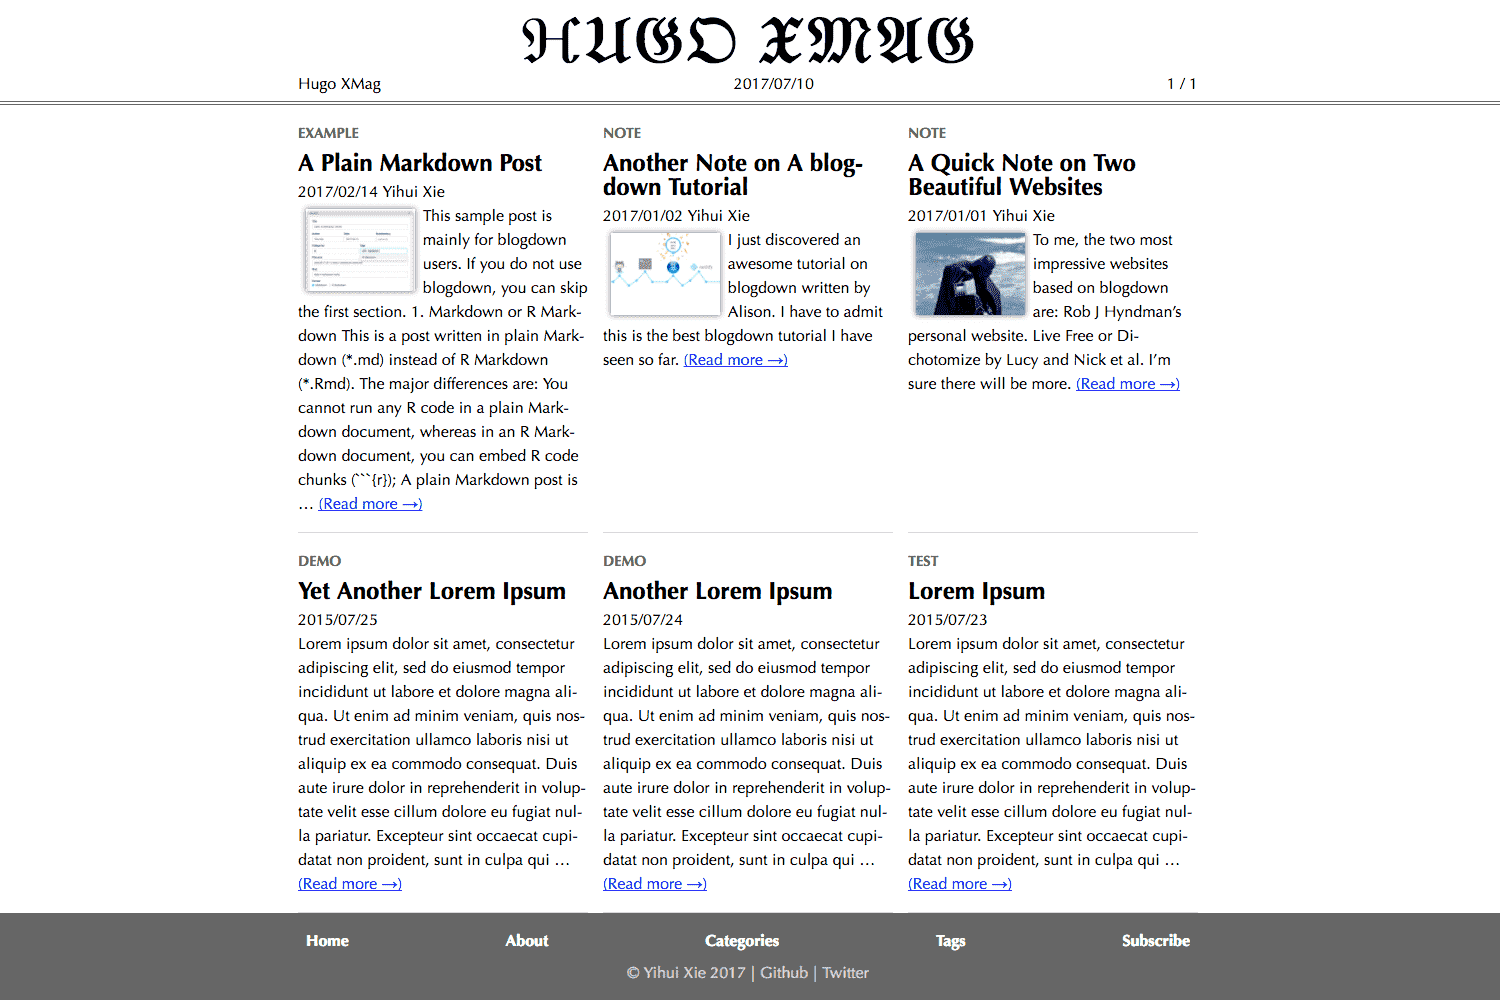
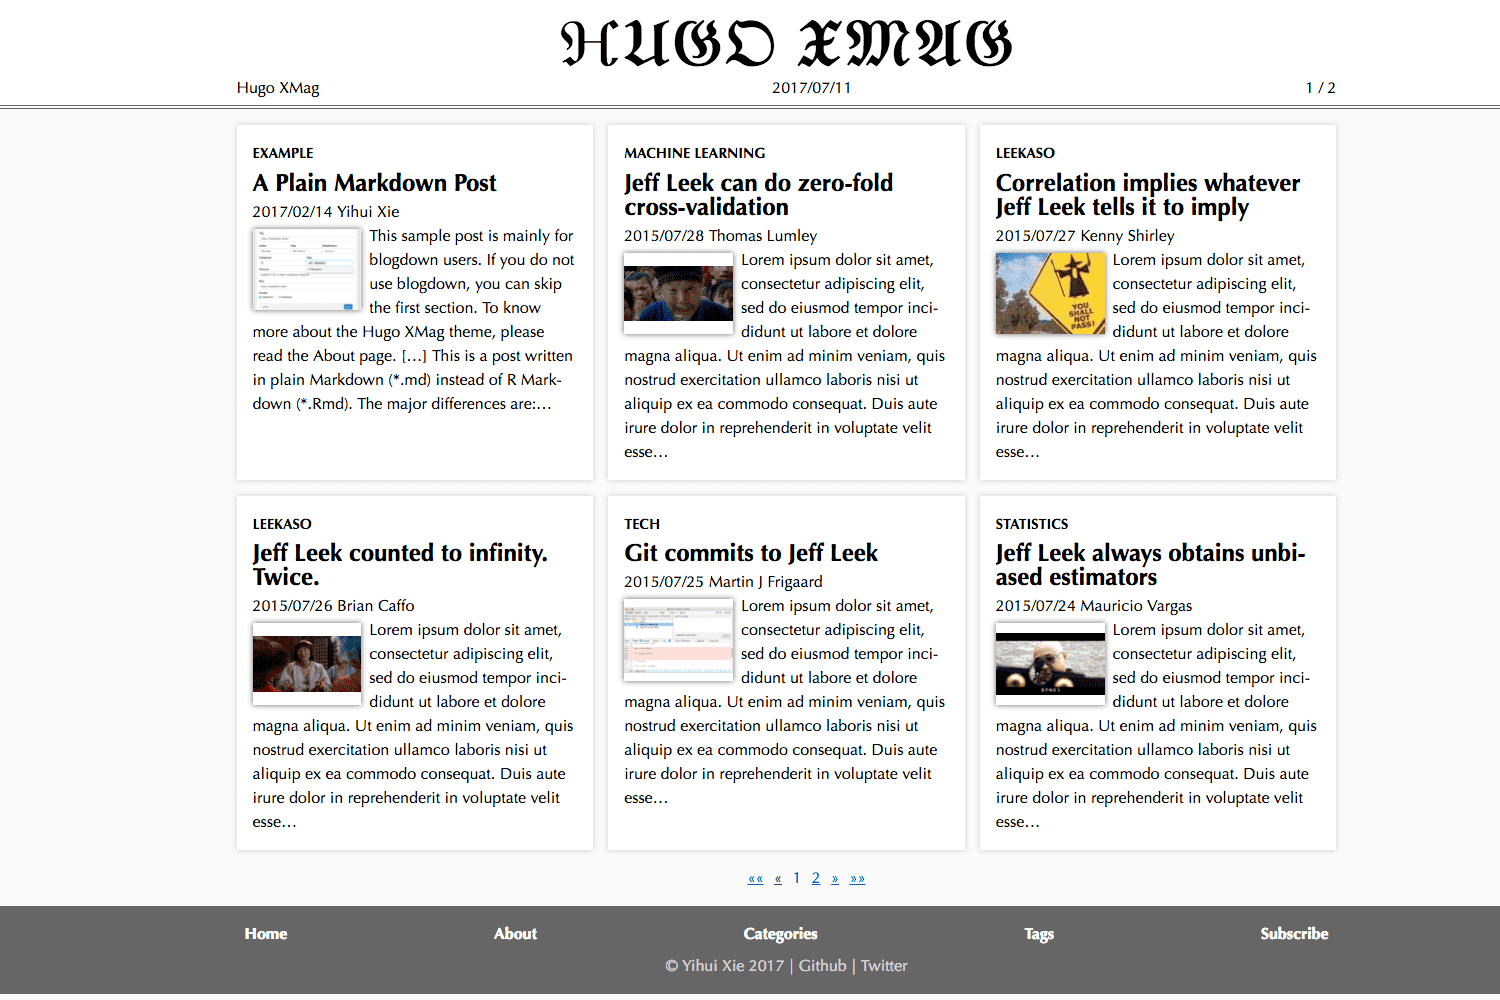
finished the documentation

Changed region(s): [[0.0, 0.0, 1.0, 1.0]]

diff --git a/exampleSite/content/about.md b/exampleSite/content/about.md
@@ -1,109 +1,123 @@
 ---
-title: About Hugo XMin
+title: About Hugo XMag
 author: Yihui Xie
 ---
 
-**XMin** is the first Hugo theme I have designed. The original reason that I wrote it was I needed a minimal example of Hugo themes when I was writing the  [**blogdown**](https://github.com/rstudio/blogdown) book. Basically I wanted a simple theme that supports a navigation menu, a home page, other single pages, lists of pages, blog posts, categories, tags, and RSS. That is all. Nothing fancy. In terms of CSS and JavaScript, I really want to keep them minimal. In fact, this theme does not contain any JavaScript code at all, although on this example website I did introduce some JavaScript code (still relatively simple anyway). The theme does not contain any images, either, and is pretty much a plain-text theme.
+**XMag** is the second Hugo theme I have designed. It is based on my first Hugo theme [**XMin**](https://github.com/yihui/hugo-xmin), and similarly, features minimalism but with a magazine style on the homepage inspired by [The Signpost](https://en.wikipedia.org/wiki/Wikipedia:Wikipedia_Signpost) on Wikipedia. You can find its source code on Github: https://github.com/yihui/hugo-xmag (licensed under MIT).
 
-The theme name "XMin" can be interpreted as "**X**ie's **Min**imal theme" (Xie is my last name) or "e**X**tremely **Min**imal theme".
+# Features
+
+This theme includes a few cool features:
+
+- Responsive article summary blocks on homepage
+
+- Thumbnails in summary blocks
+
+- Magazine title in Blackletter (&Bfr;&Lfr;&Afr;&Cfr;&Kfr; &Lfr;&Efr;&Tfr;&Tfr;&Efr;&Rfr;)
+
+- Github edit links
+
+- Author info and site info at the bottom of an article
+
+- MathJax for LaTeX math expressions
+
+It also supports features that are probably not even worth mentioning:
+
+- Google Analytics
+
+- highlight.js for syntax highlighting of code blocks
+
+- Display categories and tags on single pages
+
+- Table of contents for single pages
+
+Most features can be configured through `config.toml`, and a few can be enabled by custom layouts.
 
 # config.toml
 
-For this example site, I defined permalinks for two sections, `post` and `note`, so that the links to pages under these directories will contain the date info, e.g., `https://xmin.yihui.name/post/2016/02/14/a-plain-markdown-post/`. This is optional, and it is up to your personal taste of URLs.
+By default, your site title will be displayed at the top in Blackletter fonts if your web browser and operating system support Blackletter fonts. Essentially, for every English letter `X` in your site title, it is substituted with `&Xfr;`, e.g. the Blackletter version of `A` is `&Afr;` (&Afr;). Below are the letters from A to Z:
 
-```
-[permalinks]
-    post = "/post/:year/:month/:day/:slug/"
-    note = "/note/:year/:month/:day/:slug/"
-```
+## &Afr;&Bfr;&Cfr;&Dfr;&Efr;&Ffr;&Gfr;&Hfr;&Ifr;&Jfr;&Kfr;&Lfr;&Mfr;&Nfr;&Ofr;&Pfr;&Qfr;&Rfr;&Sfr;&Tfr;&Ufr;&Vfr;&Wfr;&Xfr;&Yfr;&Zfr;
 
-You can define the menu through `menu.main`, e.g.,
+Alternatively, you can provide a banner image:
 
-```
-[[menu.main]]
-    name = "Home"
-    url = "/"
-    weight = 1
-[[menu.main]]
-    name = "About"
-    url = "/about/"
-    weight = 2
-[[menu.main]]
-    name = "Categories"
-    url = "/categories/"
-    weight = 3
-[[menu.main]]
-    name = "Tags"
-    url = "/tags/"
-    weight = 4
-[[menu.main]]
-    name = "Subscribe"
-    url = "/index.xml"
+```toml
+[params.banner]
+    src = "/path/to/banner.png"
+    alt = "alternative text on image"
 ```
 
-Alternatively, you can add `menu: main` to the YAML metadata of any of your pages, so that these pages will appear in the menu.
+By default, each summary block on the homepage contains the first 200 letters extracted from all paragraphs of an article. I find Hugo's built in `.Summary` often unsatisfactory (e.g. it may contain headings and code blocks, which really should not go to the summary), so I wrote my own version. It works much better and the size of most summary blocks will be the same, unless certain articles are really short. The length 200 can be customized via `params.summary_length`.
 
-The page footer can be defined in `.Params.footer`, and the text is treated as Markdown, e.g.,
+If you are not satisfied with the automatic summary, you can specify the `description` option in the (YAML) metadata of your Markdown document, and set `use_description` to `true`, e.g.,
 
+```yaml
+title: "My Cool Post"
+description: "Please use this as the summary."
+use_description: true
 ```
+
+The `use_description` option can be a global parameter set in `config.toml` if you want to provide custom summaries to all articles on your site.
+
+```toml
 [params]
+    use_description = true
+```
+
+Each summary block may contain a thumbnail, which is the first image in an article if exists. You can override it by providing the `thumbnail` option in the meta data of your Markdown document, e.g.,
+
+```yaml
+---
+title: "My Cool Post"
+thumbnail: "/url/of/the/image"
+---
+```
+
+For each page, this theme adds an edit link to the top-right if a parameter `github_edit` is provided, so that your reader may easily help you edit a page and submit a pull request on Github.
+
+The page footer can be defined in `.Params.footer`, and the text is treated as Markdown. Below are some sample configurations:
+
+```toml
+[params]
+    summary_length = 200
+    github_edit = "https://github.com/yihui/hugo-xmag/edit/master/exampleSite/content/"
     footer = "&copy; [Yihui Xie](https://yihui.name) 2017"
 ```
 
-# Custom layouts
+There are a few phrases that you can "translate" (I didn't use Hugo's multi-language feature just because I'm lazy):
 
-There are two layout files under `layouts/partials/` that you may want to override: `head_custom.html` and `foot_custom.html`. This is how you inject arbitrary HTML code to the head and foot areas. For example, this site has a file `layouts/partials/foot_custom.html` to support LaTeX math via MathJax and center images automatically:
-
-```html
-<script src="//yihui.name/js/math-code.js"></script>
-<script type="text/x-mathjax-config">
-MathJax.Hub.Config({
-  tex2jax: {
-    inlineMath: [['$','$'], ['\\(','\\)']],
-    processEscapes: true
-  }
-});
-</script>
-<script async src="//cdn.bootcss.com/mathjax/2.7.1/MathJax.js?config=TeX-MML-AM_CHTML">
-</script>
-
-<script async src="//yihui.name/js/center-img.js"></script>
+```toml
+[params.text]
+    about_author = "About the Author"
+    back = "Back to Home"
+    edit = "Edit this page"
+    tags = "Tags: "
+    truncated = " &hellip;"
 ```
 
-You can certainly enable highlight.js for syntax highlighting by yourself through `head_custom.html` and `foot_custom.html` if you want.
+You can define a data file under `data/` to store all authors information, e.g., you can use a TOML file `data/authors.toml` (or YAML/JSON):
 
-If you do not like the default fonts (e.g., `Palatino`), you may provide your own `static/css/fonts.css` under the root directory of your website to override the `fonts.css` in the theme.
+```
+"Alice Wonder" = "I'm Alice. More about me on [my homepage](http://example.com)."
+"Yihui Xie" = "Hey this is Yihui. You don't want to follow me on Twitter @xieyihui."
+```
 
-# Other features
+Then for an article with an author name that can be found in `data/authors.toml`, the author info will be added to the bottom of a page. For example, on this page, you can find information about me. You can change the phrase "About the Author" by changing the parameter `about_author` in `config.toml`.
 
-I could have added more features to this theme, but I decided not to, since I have no intention to make this theme feature-rich. However, I will teach you how. I have prepared several examples via pull requests at https://github.com/yihui/hugo-xmin/pulls, so that you can see the implementations of these features when you check out the diffs in the pull requests. For example, you can:
+To add a table of contents to an article, you can add `toc: true` to the YAML metadata of the Markdown document.
 
-- [Enable Google Analytics](https://github.com/yihui/hugo-xmin/pull/3)
+# Custom layouts
 
-- [Enable Disqus comments](https://github.com/yihui/hugo-xmin/pull/4)
+Besides the custom layout^[If this is the first time you have heard about "customizing layouts", please read the Hugo documentation first: https://gohugo.io/themes/customizing/.] files `head_custom.html` and `foot_custom.html` supported in **XMin** (see [documentation](https://xmin.yihui.name/about/)), this theme added two more layout files `comments.html` and `info.html` under `layouts/partials/`. The former can be used to add a comment section, e.g., if you want to use Hugo's default Disqus template, just add this to `comments.html`:
 
-- [Enable highlight.js for syntax highlighting of code blocks](https://github.com/yihui/hugo-xmin/pull/5)
+```
+{{ template "_internal/disqus.html" . }}
+```
 
-- [Display categories and tags on a page](https://github.com/yihui/hugo-xmin/pull/2)
+You can also append arbitrary text to each article through `info.html`. For example, you may declare copyrights or briefly introduce your site.
 
-- [Add a table of contents](https://github.com/yihui/hugo-xmin/pull/7)
+# Final words
 
-- [Add a link in the footer of each page to "Edit this page" on Github](https://github.com/yihui/hugo-xmin/pull/6)
+I feel the world has become so noisy that I'm often at a loss when looking at a web page, because there are so many things to distract me. I was heavily influenced by the book [_Amusing Ourselves to Death_](https://en.wikipedia.org/wiki/Amusing_Ourselves_to_Death) after I read it in early 2017. From then on, I was hoping to design a theme for a website that gives articles the top priority. Everything else must give way to articles. That is why the navigation menu is at the bottom instead of in the conventional position (top or sidebar). There isn't much to do other than reading an article when you open a page. By the way, this is a pure plain-text theme. You can certainly add images if you want, but this theme itself contains zero binary files. Out of my [OCD](https://en.wikipedia.org/wiki/Obsessive%E2%80%93compulsive_disorder), I was just trying to push the limits of web design without using any images or JavaScript libraries (I'm a totally amateur).^[I used MathJax and highlight.js anyway in this theme because they are helpful.]
 
-To fully understand these examples, you have to read [the section on Hugo templates](https://bookdown.org/yihui/blogdown/templates.html) in the **blogdown** book.
-
-# Design philosophy
-
-Lastly, a few words about my design philosophy for this theme: I have been relying on existing frameworks like Bootstrap for years since I'm not really a designer, and I was always scared by the complexity of CSS.
-
-When I started writing this theme, I asked myself, "_What if I just write from scratch?_" No Bootstrap. No Normalize.css. I don't care about IE (life could be so much easier without IE) or inconsistencies among browsers (for personal websites). As long as the theme looks okay in Chrome, Firefox, and Safari, I'm done. Thanks to the simplicity of Markdown, you cannot really produce very complicated HTML, and I think styling the HTML output from Markdown is much simpler than general HTML documents. For example, I do not need to care much about form elements like textareas or buttons.
-
-After I finished this theme, I started to wonder why I'd need `normalize.css` at all (it sounds like a religious belief). The default appearance of modern browsers actually looks pretty good in my eyes, after I tweak the typeface a little bit.
-
-Compared to inconsistencies across browsers, I care much more about these properties of HTML elements:
-
-- Tables should always be centered, and striped tables are easier to read especially when they are wide. Tables should not have vertical borders.
-- An image should be centered if it is the only child element of a paragraph.
-- The `max-width` of images, videos, and iframes should be `100%`.
-
-I hope you can enjoy this theme. The source code is [on Github](https://github.com/yihui/hugo-xmin). Happy hacking!
+I hope you can enjoy this theme. Again, the source code is [on Github](https://github.com/yihui/hugo-xmag). Happy hacking!

diff --git a/exampleSite/content/post/2017-02-14-hello-markdown.md b/exampleSite/content/post/2017-02-14-hello-markdown.md
@@ -14,7 +14,7 @@ tags:
 toc: true
 ---
 
-This sample post is mainly for [**blogdown**](https://github.com/rstudio/blogdown) users. If you do not use **blogdown**, you can skip the first section.
+This sample post is mainly for [**blogdown**](https://github.com/rstudio/blogdown) users. If you do not use **blogdown**, you can skip the first section. To know more about the Hugo XMag theme, please read the [About](/about/) page.
 
 # 1. Markdown or R Markdown
 
@@ -30,7 +30,7 @@ There are many differences in syntax between Blackfriday's Markdown and Pandoc's
 - [ ] ...
 - [ ] Profit!
 
-Similarly, Blackfriday does not support LaTeX math and Pandoc does. I have added the MathJax support to this theme ([hugo-xmin](https://github.com/yihui/hugo-xmin)) but there is a caveat for plain Markdown posts: you have to include math expressions in a pair of backticks (inline: `` `$ $` ``; display style: `` `$$ $$` ``), e.g., `$S_n = \sum_{i=1}^n X_i$`.^[This is because we have to protect the math expressions from being interpreted as Markdown. You may not need the backticks if your math expression does not contain any special Markdown syntax such as underscores or asterisks, but it is always a safer choice to use backticks. When you happen to have a pair of literal dollar signs inside the same element, you can escape one dollar sign, e.g., `\$50 and $100` renders "\$50 and $100".] For R Markdown posts, you do not need the backticks, because Pandoc can identify and process math expressions.
+Similarly, Blackfriday does not support LaTeX math and Pandoc does. I have added the MathJax support to this theme ([hugo-xmin](https://github.com/yihui/hugo-xmag)) but there is a caveat for plain Markdown posts: you have to include math expressions in a pair of backticks (inline: `` `$ $` ``; display style: `` `$$ $$` ``), e.g., `$S_n = \sum_{i=1}^n X_i$`.^[This is because we have to protect the math expressions from being interpreted as Markdown. You may not need the backticks if your math expression does not contain any special Markdown syntax such as underscores or asterisks, but it is always a safer choice to use backticks. When you happen to have a pair of literal dollar signs inside the same element, you can escape one dollar sign, e.g., `\$50 and $100` renders "\$50 and $100".] For R Markdown posts, you do not need the backticks, because Pandoc can identify and process math expressions.
 
 When creating a new post, you have to decide whether the post format is Markdown or R Markdown, and this can be done via the `rmd` argument of the function `blogdown::new_post()`, e.g.
 

diff --git a/exampleSite/content/post/2015-07-23-lorem-ipsum5.md b/exampleSite/content/post/2015-07-23-lorem-ipsum5.md
@@ -1,13 +1,13 @@
 ---
-title: Git commits to Jeff Leek
-author: Martin J Frigaard
-date: '2015-07-25'
+title: Correlation implies whatever Jeff Leek tells it to imply
+author: Kenny Shirley
+date: '2015-07-27'
 categories:
-  - Tech
+  - Leekaso
 tags:
   - Markdown
   - Lorem Ipsum
-thumbnail: https://db.yihui.name/images/git-diff-gui.png
+thumbnail: https://db.yihui.name/imgur/3mdv0k9.jpg
 ---
 
 **Lorem ipsum** dolor sit amet, consectetur adipiscing elit, sed do eiusmod tempor incididunt ut labore et dolore _magna aliqua_. Ut enim ad minim veniam, quis nostrud exercitation ullamco laboris nisi ut aliquip ex ea commodo consequat. Duis aute irure dolor in reprehenderit in voluptate velit esse cillum dolore eu fugiat nulla pariatur. Excepteur sint occaecat cupidatat non proident, sunt in culpa qui officia deserunt mollit anim id est laborum.

diff --git a/exampleSite/content/post/2015-07-23-lorem-ipsum6.md b/exampleSite/content/post/2015-07-23-lorem-ipsum6.md
@@ -1,13 +1,13 @@
 ---
-title: Git commits to Jeff Leek
-author: Martin J Frigaard
-date: '2015-07-25'
+title: Jeff Leek can do zero-fold cross-validation
+date: '2015-07-28'
+author: Thomas Lumley
 categories:
-  - Tech
+  - Machine Learning
 tags:
   - Markdown
   - Lorem Ipsum
-thumbnail: https://db.yihui.name/images/git-diff-gui.png
+thumbnail: https://db.yihui.name/imgur/CwBsAqs.png
 ---
 
 **Lorem ipsum** dolor sit amet, consectetur adipiscing elit, sed do eiusmod tempor incididunt ut labore et dolore _magna aliqua_. Ut enim ad minim veniam, quis nostrud exercitation ullamco laboris nisi ut aliquip ex ea commodo consequat. Duis aute irure dolor in reprehenderit in voluptate velit esse cillum dolore eu fugiat nulla pariatur. Excepteur sint occaecat cupidatat non proident, sunt in culpa qui officia deserunt mollit anim id est laborum.

diff --git a/exampleSite/content/post/2015-07-23-lorem-ipsum4.md b/exampleSite/content/post/2015-07-23-lorem-ipsum4.md
@@ -1,13 +1,13 @@
 ---
-title: Git commits to Jeff Leek
-author: Martin J Frigaard
-date: '2015-07-25'
+title: Jeff Leek counted to infinity. Twice.
+author: Brian Caffo
+date: '2015-07-26'
 categories:
-  - Tech
+  - Leekaso
 tags:
   - Markdown
   - Lorem Ipsum
-thumbnail: https://db.yihui.name/images/git-diff-gui.png
+thumbnail: https://db.yihui.name/imgur/2R9iyPv.jpg
 ---
 
 **Lorem ipsum** dolor sit amet, consectetur adipiscing elit, sed do eiusmod tempor incididunt ut labore et dolore _magna aliqua_. Ut enim ad minim veniam, quis nostrud exercitation ullamco laboris nisi ut aliquip ex ea commodo consequat. Duis aute irure dolor in reprehenderit in voluptate velit esse cillum dolore eu fugiat nulla pariatur. Excepteur sint occaecat cupidatat non proident, sunt in culpa qui officia deserunt mollit anim id est laborum.

diff --git a/exampleSite/content/post/2015-07-23-lorem-ipsum2.md b/exampleSite/content/post/2015-07-23-lorem-ipsum2.md
@@ -1,11 +1,13 @@
 ---
-title: Another Lorem Ipsum
+title: Jeff Leek always obtains unbiased estimators
+author: Mauricio Vargas
 date: '2015-07-24'
 categories:
-  - Demo
+  - Statistics
 tags:
   - Markdown
   - Lorem Ipsum
+thumbnail: https://db.yihui.name/imgur/4rHon0B.png
 ---
 
 **Lorem ipsum** dolor sit amet, consectetur adipiscing elit, sed do eiusmod tempor incididunt ut labore et dolore _magna aliqua_. Ut enim ad minim veniam, quis nostrud exercitation ullamco laboris nisi ut aliquip ex ea commodo consequat. Duis aute irure dolor in reprehenderit in voluptate velit esse cillum dolore eu fugiat nulla pariatur. Excepteur sint occaecat cupidatat non proident, sunt in culpa qui officia deserunt mollit anim id est laborum.

diff --git a/exampleSite/content/post/2015-07-23-lorem-ipsum.md b/exampleSite/content/post/2015-07-23-lorem-ipsum.md
@@ -1,11 +1,13 @@
 ---
-title: Lorem Ipsum
+title: Jeff Leek is the Uniformly Most Powerful Jeff
+author: Michael Hoffman
 date: '2015-07-23'
 categories:
-  - Test
+  - Statistics
 tags:
   - Markdown
   - Lorem Ipsum
+thumbnail: https://db.yihui.name/images/saga7.gif
 ---
 
 **Lorem ipsum** dolor sit amet, consectetur adipiscing elit, sed do eiusmod tempor incididunt ut labore et dolore _magna aliqua_. Ut enim ad minim veniam, quis nostrud exercitation ullamco laboris nisi ut aliquip ex ea commodo consequat. Duis aute irure dolor in reprehenderit in voluptate velit esse cillum dolore eu fugiat nulla pariatur. Excepteur sint occaecat cupidatat non proident, sunt in culpa qui officia deserunt mollit anim id est laborum.
